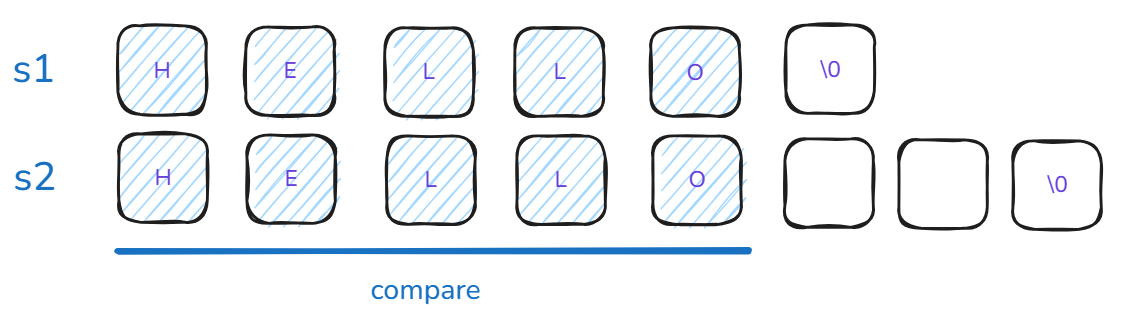
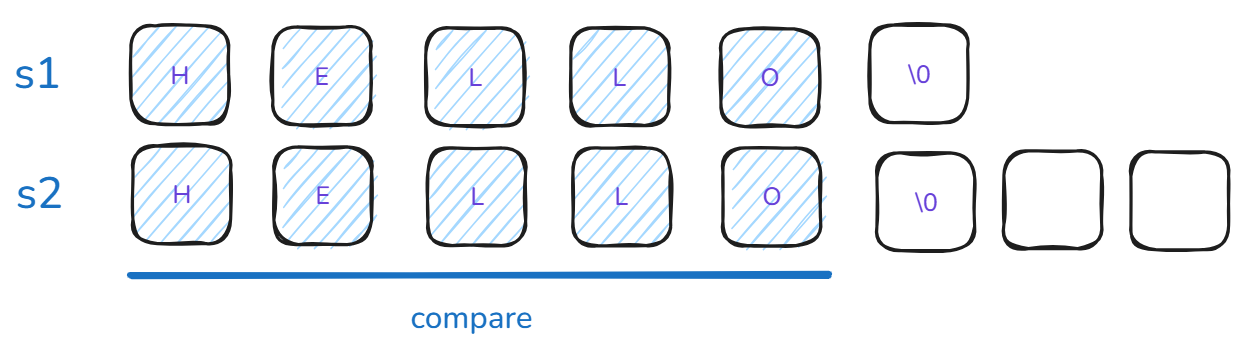
测试上传

diff --git a/vite-press/docs/articles/server/c/06.字符串.md b/vite-press/docs/articles/server/c/06.字符串.md
@@ -90,7 +90,8 @@ int main() {
 ![](https://raw.githubusercontent.com/matrix-johnjohn/kimo-docs/refs/heads/main/images/articles/server/c/string/3.string.png)
 
 ### 截取字符串
-`strchar(char *s1,char c)`是字符串标准库函数中的一个函数,返回一个指针,指向字符串`s1`中字符`c`的第一次出现的位置。
+`strchar(char *s1,char c)`是字符串标准库函数中的一个函数,返回一个指针,指向字符串`s1`中字符`c`的第一次出现的位置;
+![](https://raw.githubusercontent.com/matrix-johnjohn/kimo-docs/refs/heads/main/images/articles/server/c/string/4.string.png)
 ````C
 #define _CRT_SECURE_NO_WARNINGS
 #include <stdio.h>
@@ -104,7 +105,8 @@ int main() {
     return 0;
 }
 ````
-`strstr(char *s1,char* s2)`是字符串标准库函数中的一个函数,返回一个指针,指向字符串`s1`中字符串`s2`的第一次出现的位置。
+`strstr(char *s1,char* s2)`是字符串标准库函数中的一个函数,返回一个指针,指向字符串`s1`中字符串`s2`的第一次出现的位置;
+![](https://raw.githubusercontent.com/matrix-johnjohn/kimo-docs/refs/heads/main/images/articles/server/c/string/5.string.png)
 ````C
 #define _CRT_SECURE_NO_WARNINGS
 #include <stdio.h>
@@ -120,7 +122,8 @@ int main() {
 ````
 
 ### 字符串比较
-`strcmp(char *s1,char* s2)`是字符串标准库函数中的一个函数,用于比较两块空间中的已有字符占有区域,若相同则返回0;
+`strcmp(char *s1,char* s2)`是字符串标准库函数中的一个函数,用于按字典序比较两个以空字符`\0`结尾的字符串;它逐字符比较 ASCII 值，直至发现差异或遇到字符串结束符;若两字符串相等,返回 0;若第一个字符串小于第二个,返回负整数;反之返回正整数;注意：传入参数必须为有效 C 字符串,否则行为未定义;
+![](https://raw.githubusercontent.com/matrix-johnjohn/kimo-docs/refs/heads/main/images/articles/server/c/string/6.string.png)
 ````C
 #define _CRT_SECURE_NO_WARNINGS
 #include <stdio.h>
